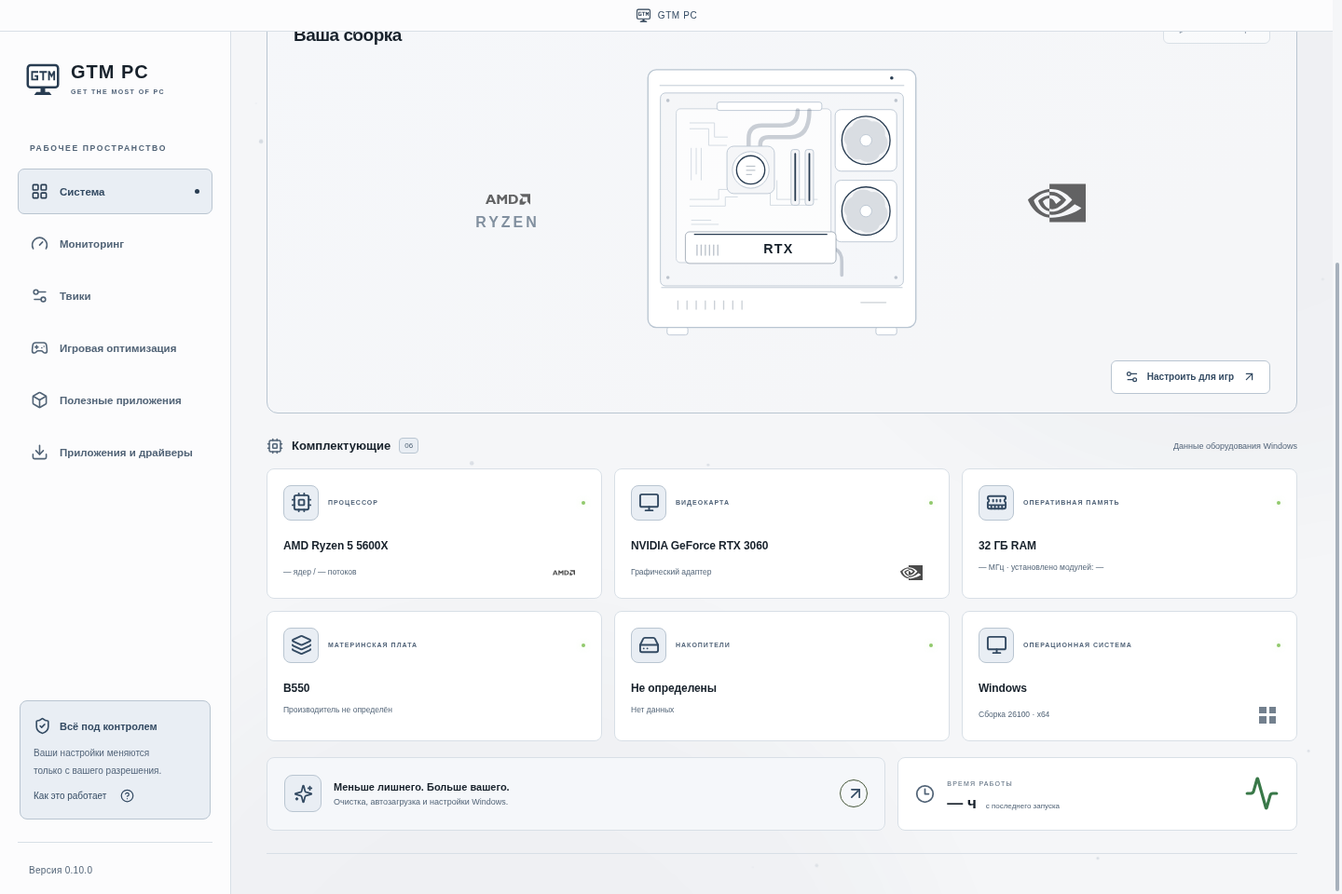
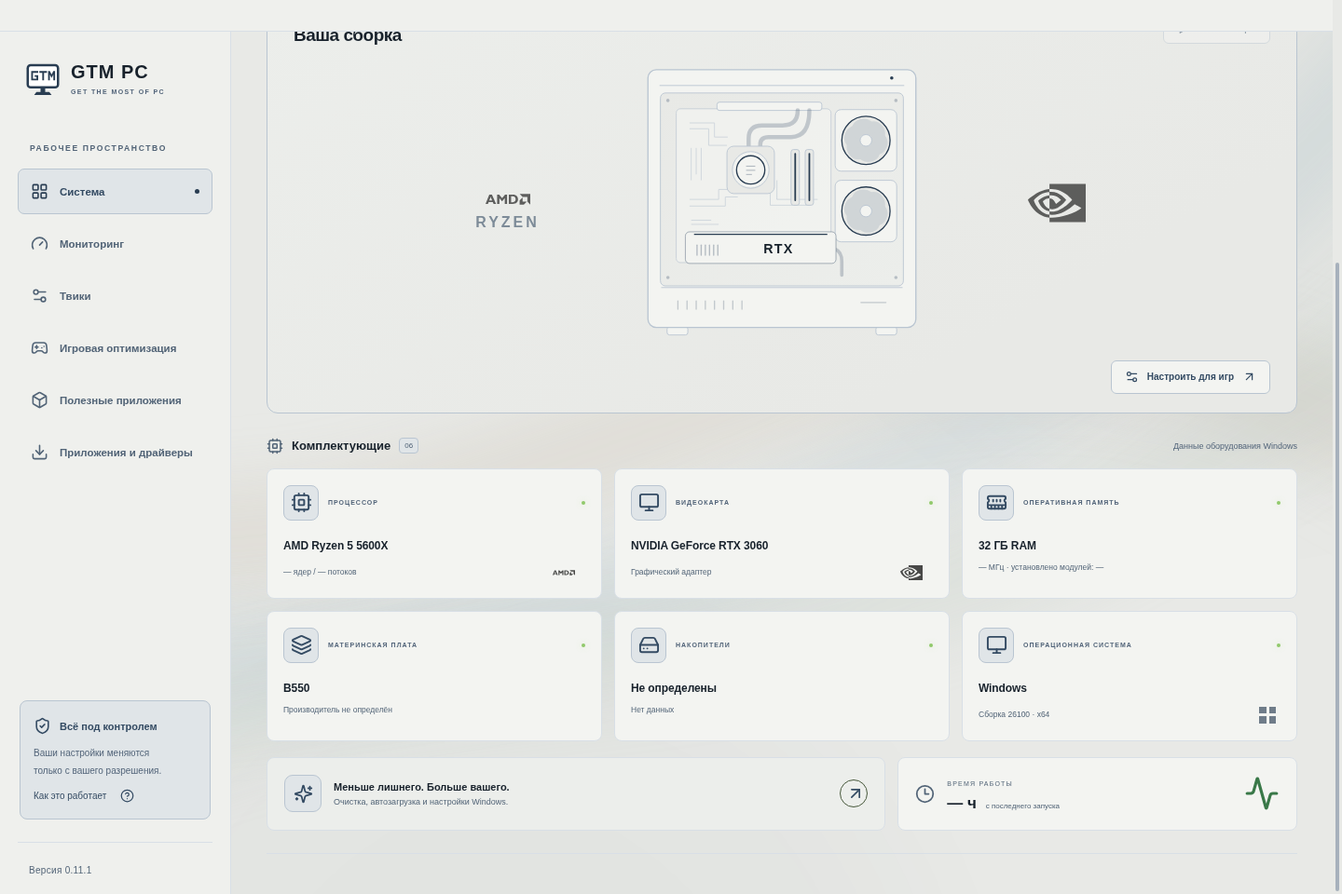
Publish GTM PC 0.11.1 with themed wallpaper and activity previews

diff --git a/README.md b/README.md
@@ -1,29 +1,33 @@
-# GTM PC 0.10.0
+# GTM PC 0.11.1
 
 <p align="center"><img src="assets/brand.svg" width="112" alt="GTM PC"/><br/><strong>Get The Most of PC</strong></p>
 
 Настольное приложение для Windows 10/11 x64: сведения о ПК и мониторинг оптимизации, автоматические профили настройки Windows с откатом, каталог приложений и официальная поддержка драйверов. React + TypeScript + Electron + Windows PowerShell 5.1.
 
-## GTM PC 0.10.0 — две темы, новое окно и живой фон
+## GTM PC 0.11.1 — живые темы и переходы из уведомлений
 
-**[⬇ Скачать GTM PC 0.10.0 — установщик Windows 10/11 x64](https://github.com/73skrxll-cmd/LAGOPHONE/releases/download/windows-37-1/GTM-PC-Setup-x64.exe)**
+**[⬇ Скачать GTM PC 0.11.1 — установщик Windows 10/11 x64](https://github.com/73skrxll-cmd/LAGOPHONE/releases/download/windows-41-1/GTM-PC-Setup-x64.exe)**
 
-[Portable без установки](https://github.com/73skrxll-cmd/LAGOPHONE/releases/download/windows-37-1/GTM-PC-Portable-x64.exe) · [Релиз и контрольные суммы](https://github.com/73skrxll-cmd/LAGOPHONE/releases/tag/windows-37-1)
+[Portable без установки](https://github.com/73skrxll-cmd/LAGOPHONE/releases/download/windows-41-1/GTM-PC-Portable-x64.exe) · [Релиз и контрольные суммы](https://github.com/73skrxll-cmd/LAGOPHONE/releases/tag/windows-41-1)
 
-- **Только чёрная и белая темы.** Чёрная используется по умолчанию; старые цветные темы переходят на неё. Выбор белой темы сохраняется после перезапуска. Для светлого оформления адаптированы фон, текст, карточки, поля, предупреждения и игровые логотипы.
-- **Место под нижними карточками:** пустой отступ с тонкой линией, без подписей.
-- **Стилизованное окно:** верхняя панель в цвет темы и тонкая прокрутка с закруглённым ползунком. Кнопки сворачивания, разворачивания и закрытия остаются штатными Windows; панель поддерживает перетаскивание окна.
-- **Светлый монитор GTM:** обновлены значки приложения, EXE, установщика и ярлыков.
-- **Исправлен мониторинг:** эмблема ограничена по размеру и находится в центре индикатора, без растягивания и обрезания.
-- **Живые звёздные обои:** три слоя звёзд плавно движутся с разной скоростью и мерцают. Фон работает независимо от анимаций Windows. Кнопка эффектов останавливает его; при потере фокуса или сворачивании окна движение приостанавливается.
+- **Пустая верхняя полоса:** убраны маленькая иконка и название; место для перетаскивания и штатные кнопки окна сохранены.
+- **Мягкая белая тема:** матовый сероватый фон, спокойные карточки и собственные живые обои — плавные световые ленты.
+- **Чёрная тема:** летящие и мерцающие звёзды в трёх слоях.
+- **Независимые анимации:** фон обеих тем и игровая анимация продолжают работать при отключённых анимациях Windows. При потере фокуса или сворачивании они приостанавливаются и продолжаются после возвращения в приложение. Фон можно отдельно остановить кнопкой эффектов.
+- **«Перейти» в уведомлениях:** открывает связанный раздел, нужную игру, питание или дополнительные инструменты. Старые записи тоже получают переход. Просмотр истории не повторяет изменений Windows; переключение игры во время операции откладывается до её завершения.
+- **Одно подтверждение в интерфейсе:** после оформленного окна программы убран повторный стандартный диалог для системного профиля и дополнительных инструментов, включая список установленных программ. Запрос прав администратора Windows сохраняется.
 
 ![Живой звёздный фон чёрной темы](docs/living-wallpaper.gif)
 
-![Белая тема и свободное место под нижними карточками](docs/white-theme.png)
+![Световые ленты белой темы](docs/white-wallpaper.gif)
 
-Браузерные проверки охватывают обе темы, контраст текста, сохранение выбора, отступ, верхнюю панель, прокрутку, размер эмблемы, движение и остановку звёзд, а также прежнюю игровую анимацию. Windows-тесты и сборка пройдены. Готовый установщик скачан и проверен по SHA-256, версии, содержимому и новому значку внутри EXE.
+![Кнопки перехода в уведомлениях](docs/notifications.png)
 
-Перед обновлением закройте прежнюю версию. После установки проверьте **GTM PC 0.10.0** внизу боковой панели. Выбранные игры, история и прежние настройки сохраняются.
+![Мягкая белая тема и свободное место под нижними карточками](docs/white-theme.png)
+
+Браузерные проверки охватывают обе темы, контраст текста, пустую верхнюю полосу, фон при отключённых системных анимациях, паузу при потере фокуса, переходы из новых и старых уведомлений, отложенную смену игры и одно подтверждение действия. Windows-тесты и сборка пройдены. Готовый установщик скачан и проверен по SHA-256, версии, содержимому и значку внутри EXE.
+
+Перед обновлением закройте прежнюю версию. После установки проверьте **GTM PC 0.11.1** внизу боковой панели. Выбранные игры, история и прежние настройки сохраняются.
 
 ## Скачать последнюю версию
 
@@ -72,7 +76,7 @@
 1. Выберите базовый, средний или глубокий профиль. Интерфейс сразу переводит к его составу: показывает размер списка, число отмеченных действий, сколько настроек добавлено или убрано и предлагаемый план питания. В базовом профиле нет строк старших уровней. Средний и глубокий уровни добавляют совместимые с выбранной Windows настройки; базовый набор, среднее и глубокое дополнения разделены на раскрываемые группы. При переключении раскрывается группа выбранного уровня. Питание находится первым в «Твиках», а EXE и приоритет — в самостоятельной «Игровой оптимизации».
 2. Проверьте ответы: **«Использую — сохранить»** блокирует отключение функции; **«Не использую»** разрешает соответствующие твики. Рекомендации сохраняют печать/PDF, Bluetooth, запись игр, поиск и OneDrive; часть необязательных функций предложена к отключению только в старших профилях. Старые ответы при обновлении сохраняются. Кнопка **«Рекомендуемые ответы»** позволяет явно загрузить новые рекомендации.
 3. При необходимости выберите план питания и игру. Для персональной настройки GPU укажите основной EXE игры через системный диалог.
-4. В группах и категориях отметьте конкретные действия. Опрос сохраняемых функций и параметры питания/игры раскрываются отдельно; в базовом профиле опрос отключаемых функций скрыт. Цветная рамка, галочка и метка **«ВЫБРАНО»** означают включённый пункт; **«НЕ ВЫБРАНО»** — исключённый. Сохранённые/недоступные пункты остаются видны с причиной. Закреплённая плашка считает выбор в реальном времени, её стрелка ведёт к кнопке **«Оптимизировать»**. Подтвердите итоговый список и запрос Windows.
+4. В группах и категориях отметьте конкретные действия. Опрос сохраняемых функций и параметры питания/игры раскрываются отдельно; в базовом профиле опрос отключаемых функций скрыт. Цветная рамка, галочка и метка **«ВЫБРАНО»** означают включённый пункт; **«НЕ ВЫБРАНО»** — исключённый. Сохранённые/недоступные пункты остаются видны с причиной. Закреплённая плашка считает выбор в реальном времени, её стрелка ведёт к кнопке **«Оптимизировать»**. Подтвердите итоговый список; при необходимости Windows запросит права администратора (UAC).
 5. Прочитайте отчёт: применённые, пропущенные, восстановленные и ошибочные пункты отображаются отдельно. Кнопки **Восстановить исходные настройки** вверху раздела и **Восстановить настройки** на закреплённой плашке возвращают сохранённые значения.
 
 Каждое открытие раздела начинается с **базового черновика**, текущего питания и без выбранной игры. Ответы о нужных функциях сохраняются. Сам выбор профиля ничего не запускает. У каждого твика отдельно показаны **«Даёт»** и **«Взамен»**; системные изменения, отключение функций и эксперименты выделены меткой **«ВАЖНО»**. Перед применением таких пунктов требуется прочитать последствия и отметить подтверждение в итоговом окне.
@@ -151,13 +155,10 @@ Main process проверяет реальную Windows, сборку и дос
 
 Фон охватывает **всё приложение**, включая выбор Windows, систему, мониторинг, твики, приложения и драйверы:
 
-- **Чёрная:** звёзды с мягким мерцанием.
-- **Фиолетовая:** неоновые линии, свечение и перспективная сетка.
-- **Зелёная:** листья, ветви и контурные лотосы.
-- **Синяя:** волны и воздушные пузырьки.
-- **Красная:** тёплое свечение и медленные искры.
+- **Чёрная:** летящие звёзды с мягким мерцанием, три слоя с разной скоростью движения.
+- **Белая:** матовые сероватые поверхности и медленно движущиеся световые ленты в спокойных голубых, тёплых и шалфейных оттенках.
 
-Декор расположен за интерфейсом, не перехватывает мышь и не перекрывает текст. Тема сохраняется локально. Кнопка со звёздочками рядом с выбором темы останавливает анимации фона и уровня оптимизации; рисунок остаётся видимым. Анимации останавливаются при скрытии/потере фокуса окна и учитывают системное уменьшение движения.
+Декор расположен за интерфейсом, не перехватывает мышь и не перекрывает текст. Тема сохраняется локально. Кнопка со звёздочками рядом с выбором темы останавливает фон; рисунок остаётся видимым. Обои и игровая анимация работают независимо от системного уменьшения движения. При скрытии или потере фокуса окна они приостанавливаются. Игровая анимация также останавливается при уходе из раздела игры.
 
 ## Переходы между экранами
 
@@ -169,7 +170,7 @@ Main process проверяет реальную Windows, сборку и дос
 
 **Система:** CIM-информация о CPU, GPU, плате, ОЗУ, дисках, ОС и времени работы. Вместо рекламного баннера — векторный корпус с почти квадратными пропорциями, в цветах выбранной темы, с анимированными вентиляторами и мягкой подсветкой. По сторонам показаны логотипы обнаруженных производителей CPU, платы, GPU, памяти и накопителей. Неизвестные бренды не подставляются; производитель памяти читается из CIM. Нижняя строка с названием видеокарты убрана. В карточках комплектующих текстовые метки производителей заменены логотипами, а полные названия моделей сохранены. Надпись на видеокарте выбирается по обнаруженному GPU: RTX, GTX, Radeon, Intel Arc либо нейтральное обозначение при неизвестной модели. Корпус условный, не скан физической сборки. Анимация ставится на паузу кнопкой, при потере фокуса и скрытии окна; учитывается системное уменьшение движения. В браузере и на Linux явно показаны демоданные, системные операции не выполняются.
 
-**Недавние действия:** колокольчик показывает фактические результаты применения и восстановления, подтверждённые смены питания и завершённые загрузки. До 80 записей сохраняются локально в `activity.json`; очистка списка не затрагивает резервную копию настроек. Ошибка записи истории не отменяет успешную системную операцию. Новый знак LG и подпись **«От игроков — для игроков»** используются в интерфейсе и иконках приложения; внизу боковой панели указана версия.
+**Недавние действия:** колокольчик показывает фактические результаты применения и восстановления, подтверждённые смены питания и завершённые загрузки. До 80 записей сохраняются локально в `activity.json`; очистка списка не затрагивает резервную копию настроек. Ошибка записи истории не отменяет успешную системную операцию. Кнопка **«Перейти»** открывает связанный раздел, игру или блок питания/инструментов, не повторяя действие. Старые записи без сохранённого адреса направляются в подходящий раздел по типу события. В интерфейсе и иконках используется монитор GTM PC с подписью **Get The Most of PC**; внизу боковой панели указана версия.
 
 **Приложения:** Discord, NanaZip, qBittorrent, Steam, Mem Reduct, VS Code, Firefox, VLC. Прямое сохранение установщиков Discord, Steam, VS Code, Firefox; для остальных — официальный сайт. Установщики автоматически не запускаются. Mem Reduct нужен не всем ПК и не гарантирует ускорение.
 
